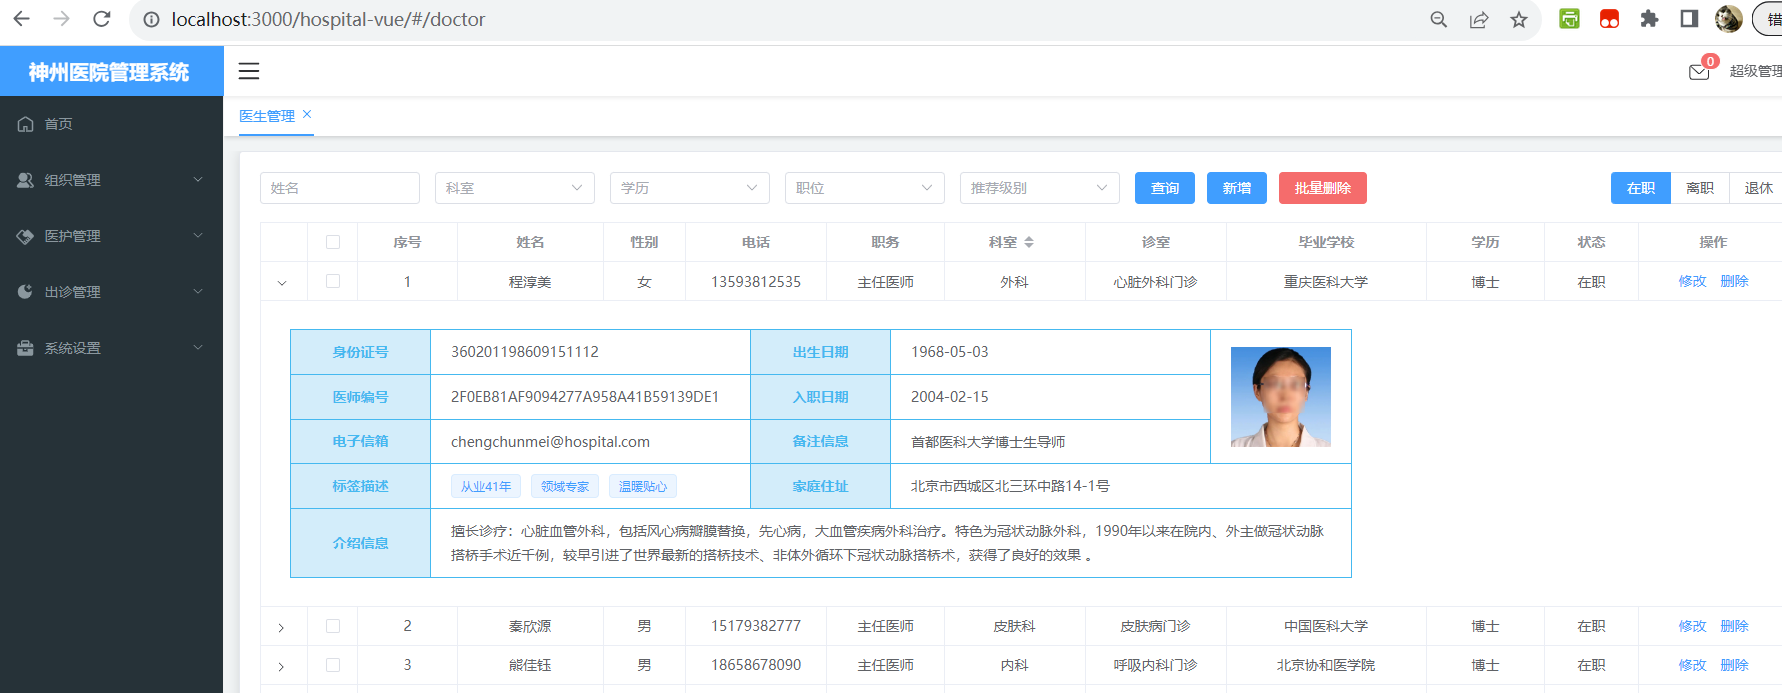
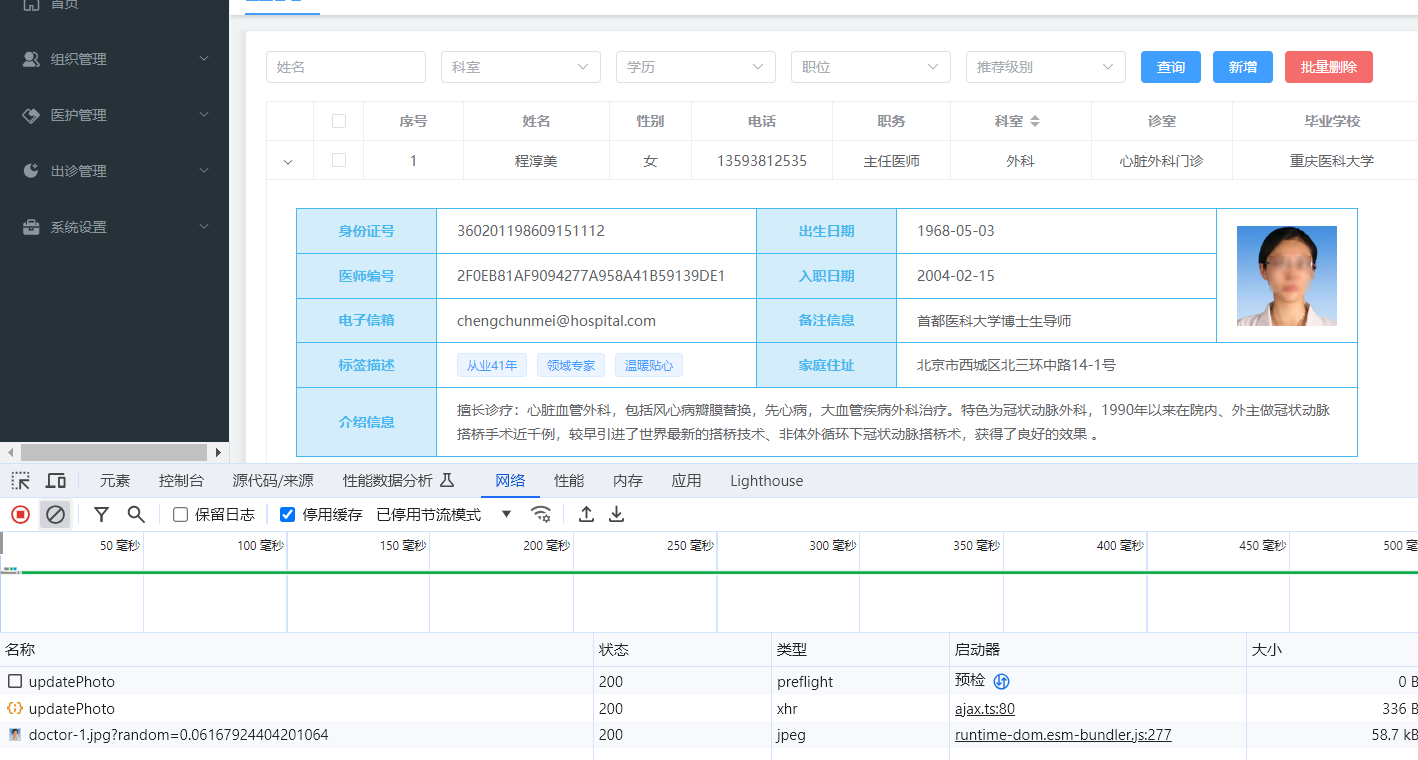
Minio私有云保存照片文件

diff --git a/src/views/doctor.vue b/src/views/doctor.vue
@@ -368,7 +368,18 @@ export default {
                 } else {
                     that. expands = [];
                 }
-    },},
+        },
+        updatePhotoSuccess: function() {
+            this.content.photo = `${this.$minioUrl}/doctor/doctor-${this.content.id}.jpg?random=${Math.random()}`;
+        },
+        updatePhotoError: function() {
+            ElMessage({
+             message: '文件上传失败',
+             type: 'error',
+             duration: 1200
+        });
+        }
+     },
     created: function() {
         this.loadMedicalDeptList();
         this.loadDataList();
